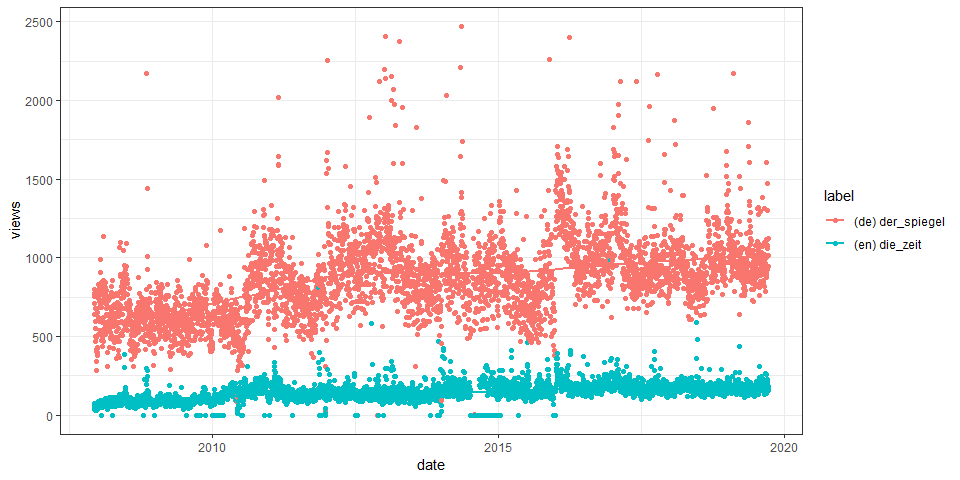
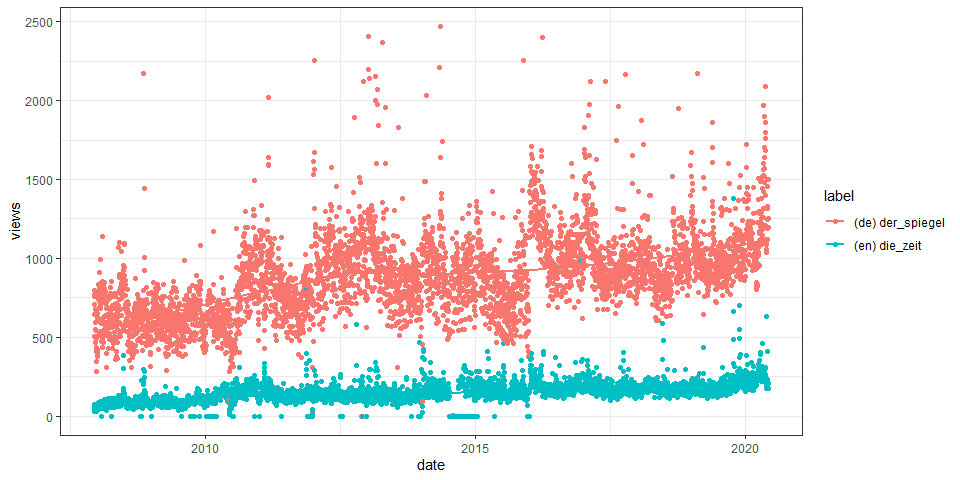
version 2.1.6

diff --git a/README.md b/README.md
@@ -14,11 +14,11 @@ status](https://ci.appveyor.com/api/projects/status/github/petermeissner/wikiped
 <img src="http://cranlogs.r-pkg.org/badges/grand-total/wikipediatrend">
 <img src="http://cranlogs.r-pkg.org/badges/wikipediatrend">
 
-*lines of R code:* 470, *lines of test code:* 160
+*lines of R code:* 474, *lines of test code:* 160
 
 **Version**
 
-2.1.4 ( 2019-09-21 15:25:37 )
+2.1.6 ( 2020-06-03 12:43:18 )
 
 **Description**
 
@@ -39,8 +39,8 @@ GPL (\>= 2) <br>Peter Meissner \[aut, cre\], R Core Team \[cph\]
 citation("wikipediatrend")
 ```
 
-Meissner P (2019). *wikipediatrend: Public Subject Attention via
-Wikipedia Page View Statistics*. R package version 2.1.4.
+Meissner P (2020). *wikipediatrend: Public Subject Attention via
+Wikipedia Page View Statistics*. R package version 2.1.6.
 
 **BibTex for citing**
 
@@ -109,13 +109,13 @@ trend_data
     ## 4    en       die_zeit    2007-12-11    35
     ## 3    de       der_spiegel 2007-12-11   710
     ## 5    de       der_spiegel 2007-12-12   770
-    ## 8602 en       die_zeit    2019-09-18   182
-    ## 8604 en       die_zeit    2019-09-19   157
-    ## 8603 de       der_spiegel 2019-09-19  1125
-    ## 8606 en       die_zeit    2019-09-20   165
-    ## 8605 de       der_spiegel 2019-09-20   943
+    ## 9114 en       die_zeit    2020-05-31   209
+    ## 9116 en       die_zeit    2020-06-01   174
+    ## 9115 de       der_spiegel 2020-06-01  1498
+    ## 9118 en       die_zeit    2020-06-02   208
+    ## 9117 de       der_spiegel 2020-06-02  1252
     ## 
-    ## ... 8596 rows of data not shown
+    ## ... 9108 rows of data not shown
 
 *having another look …*
 
@@ -125,4 +125,70 @@ plot(
 )
 ```
 
+    ## `geom_smooth()` using formula 'y ~ x'
+
 ![](man/figures/README-unnamed-chunk-17-1.png)<!-- -->
+
+**Usage 2**
+
+*getting some data …*
+
+``` r
+trend_data <- 
+  wp_trend(
+    page = 
+      c(
+        "Climate_crisis", 
+        "2019–20_coronavirus_pandemic",
+        "Donald_Trump",
+        "Syria",
+        "Crimea",
+        "Influenza"
+      ), 
+    lang = "en", 
+    from = "2007-01-01",
+    to   = Sys.Date()
+  )
+```
+
+    ## Warning in wpd_get_exact(page = page, lang = lang, from = from, to = to, : Unable to retrieve data for url:
+    ## http://petermeissner.de:8880/article/exact/en/2019–20_coronavirus_pandemic. Status: error.
+
+*having a look …*
+
+``` r
+trend_data
+```
+
+    ##       language article        date       views  
+    ## 1     en       climate_crisis 2007-12-10       0
+    ## 2     en       crimea         2007-12-10    1051
+    ## 5     en       syria          2007-12-10    3205
+    ## 4     en       influenza      2007-12-10    4153
+    ## 3     en       donald_trump   2007-12-10    5050
+    ## 22723 en       climate_crisis 2020-06-02     103
+    ## 22726 en       influenza      2020-06-02    3437
+    ## 22724 en       crimea         2020-06-02    3681
+    ## 22727 en       syria          2020-06-02    4969
+    ## 22725 en       donald_trump   2020-06-02  916742
+    ## 
+    ## ... 22717 rows of data not shown
+
+*having another look …*
+
+``` r
+options(scipen = 1000000)
+
+plot(trend_data) + 
+  ggplot2::scale_y_log10()
+```
+
+    ## Warning: Transformation introduced infinite values in continuous y-axis
+    
+    ## Warning: Transformation introduced infinite values in continuous y-axis
+
+    ## `geom_smooth()` using formula 'y ~ x'
+
+    ## Warning: Removed 1202 rows containing non-finite values (stat_smooth).
+
+![](man/figures/README-unnamed-chunk-20-1.png)<!-- -->
